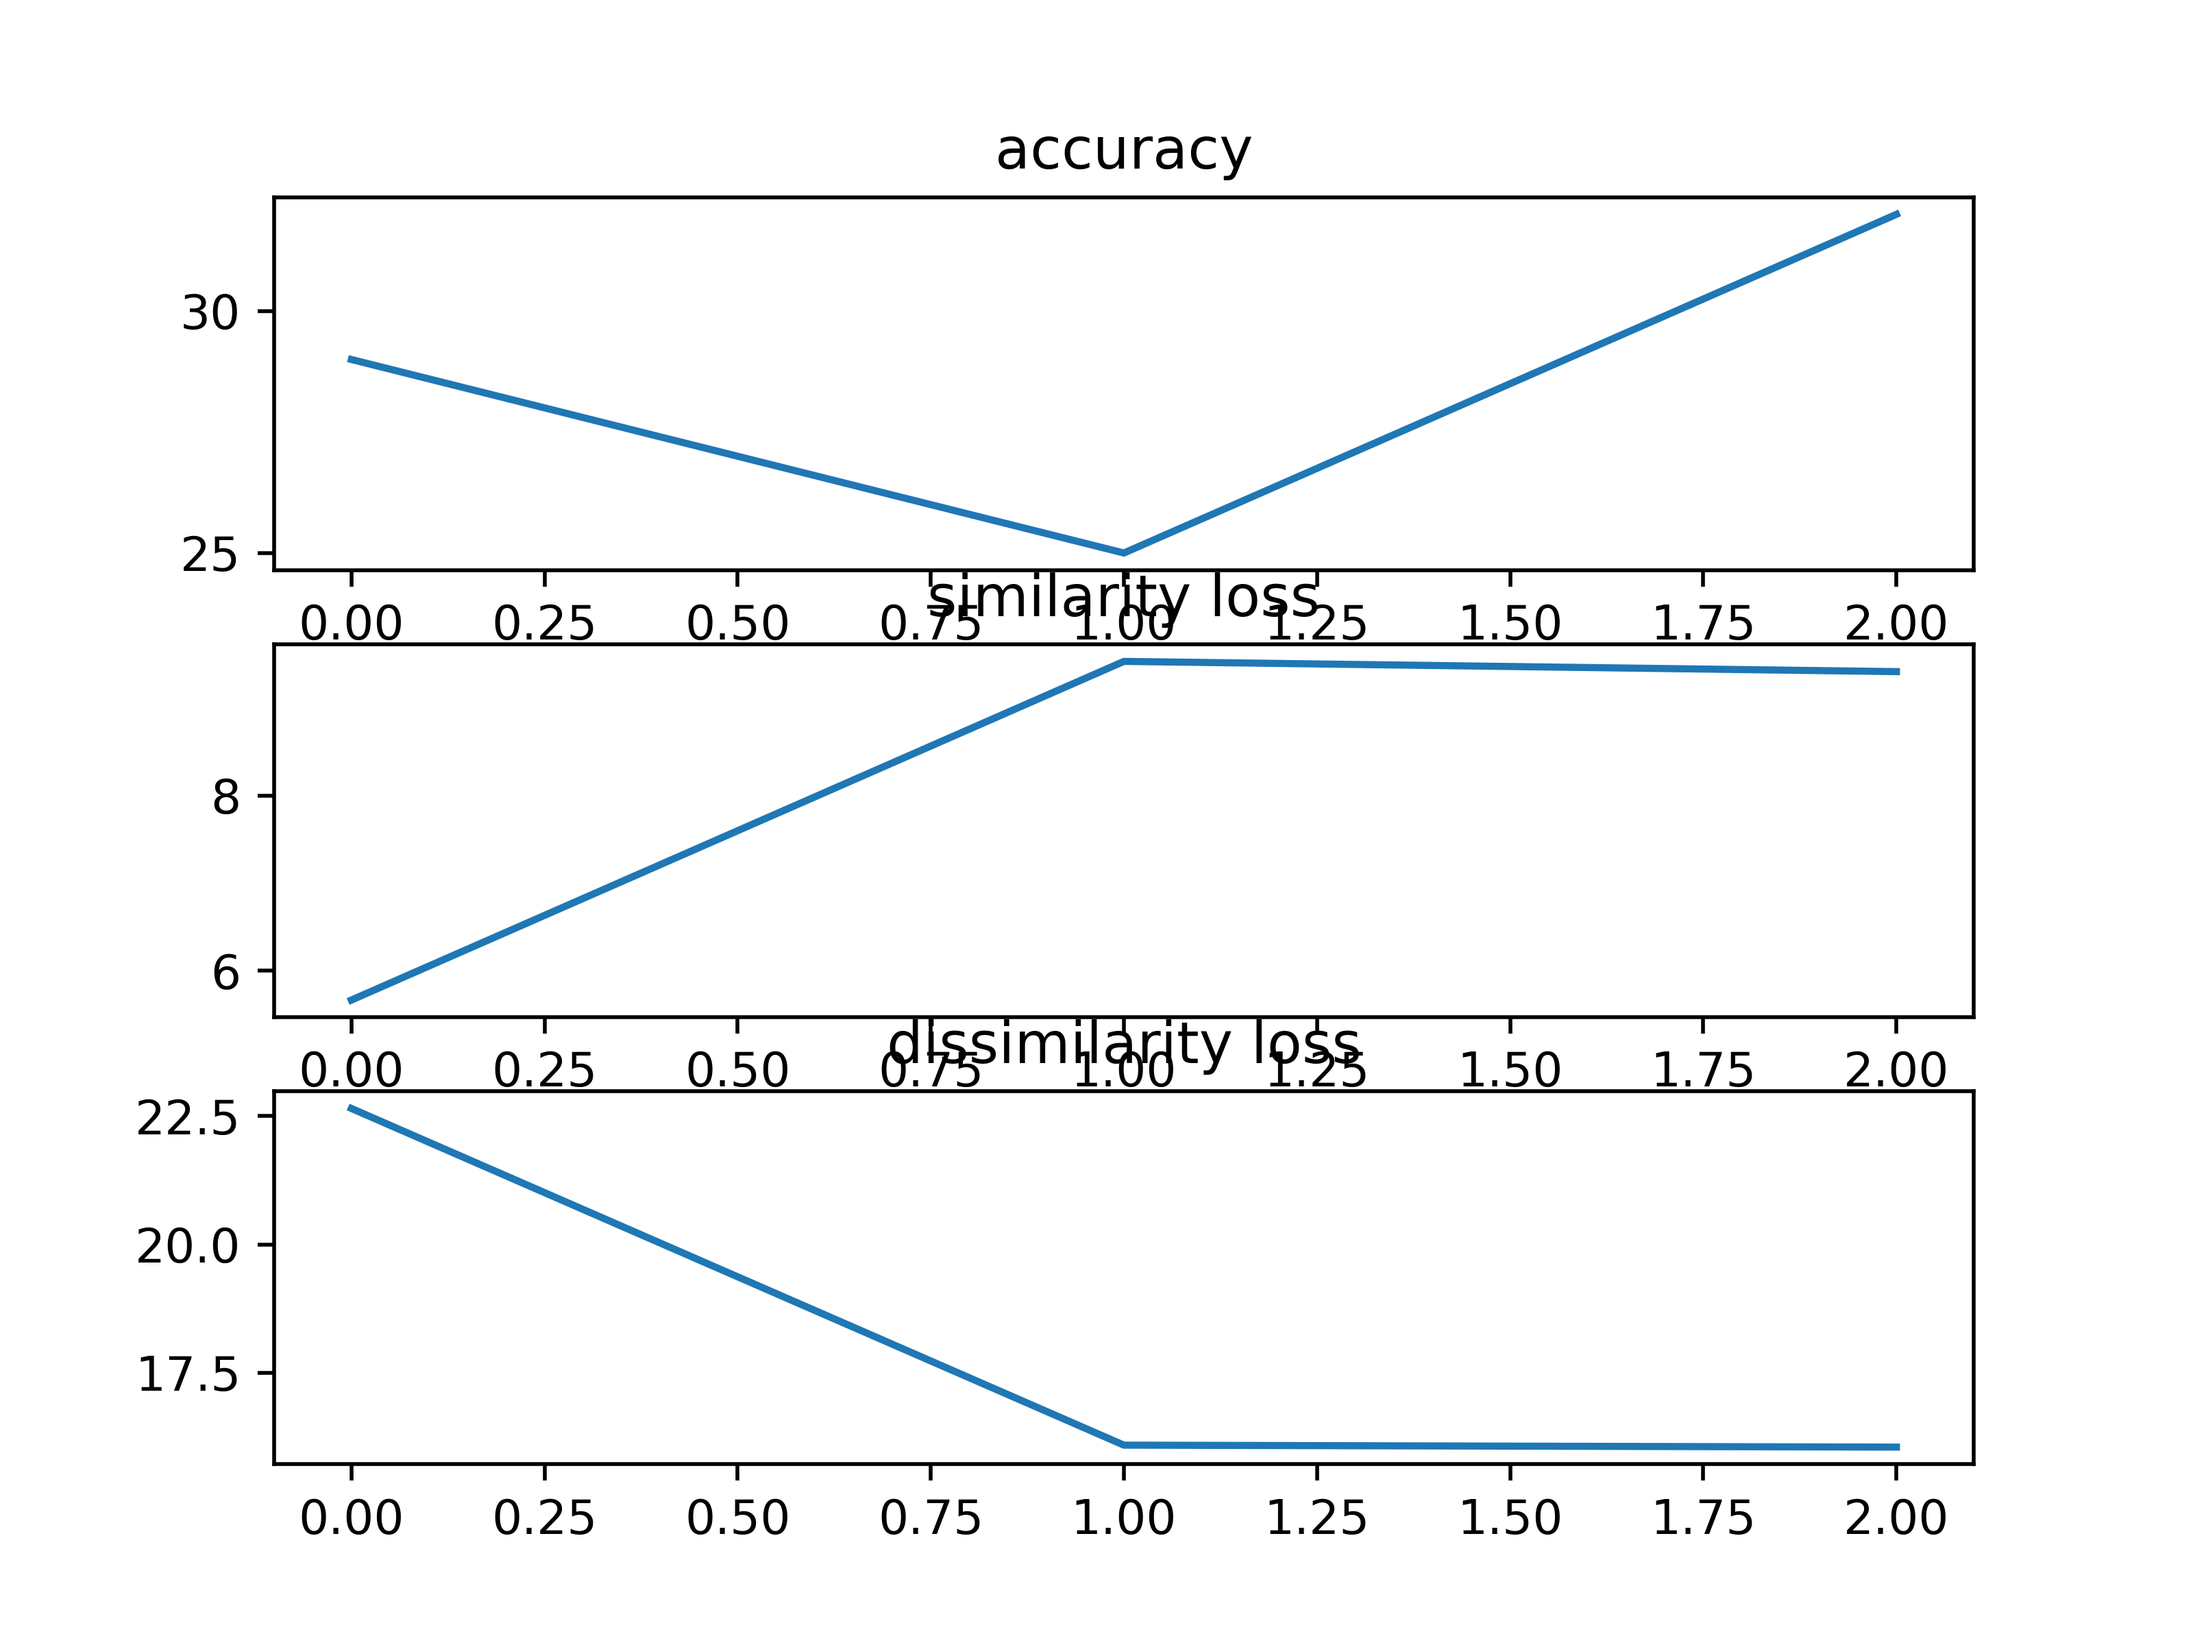
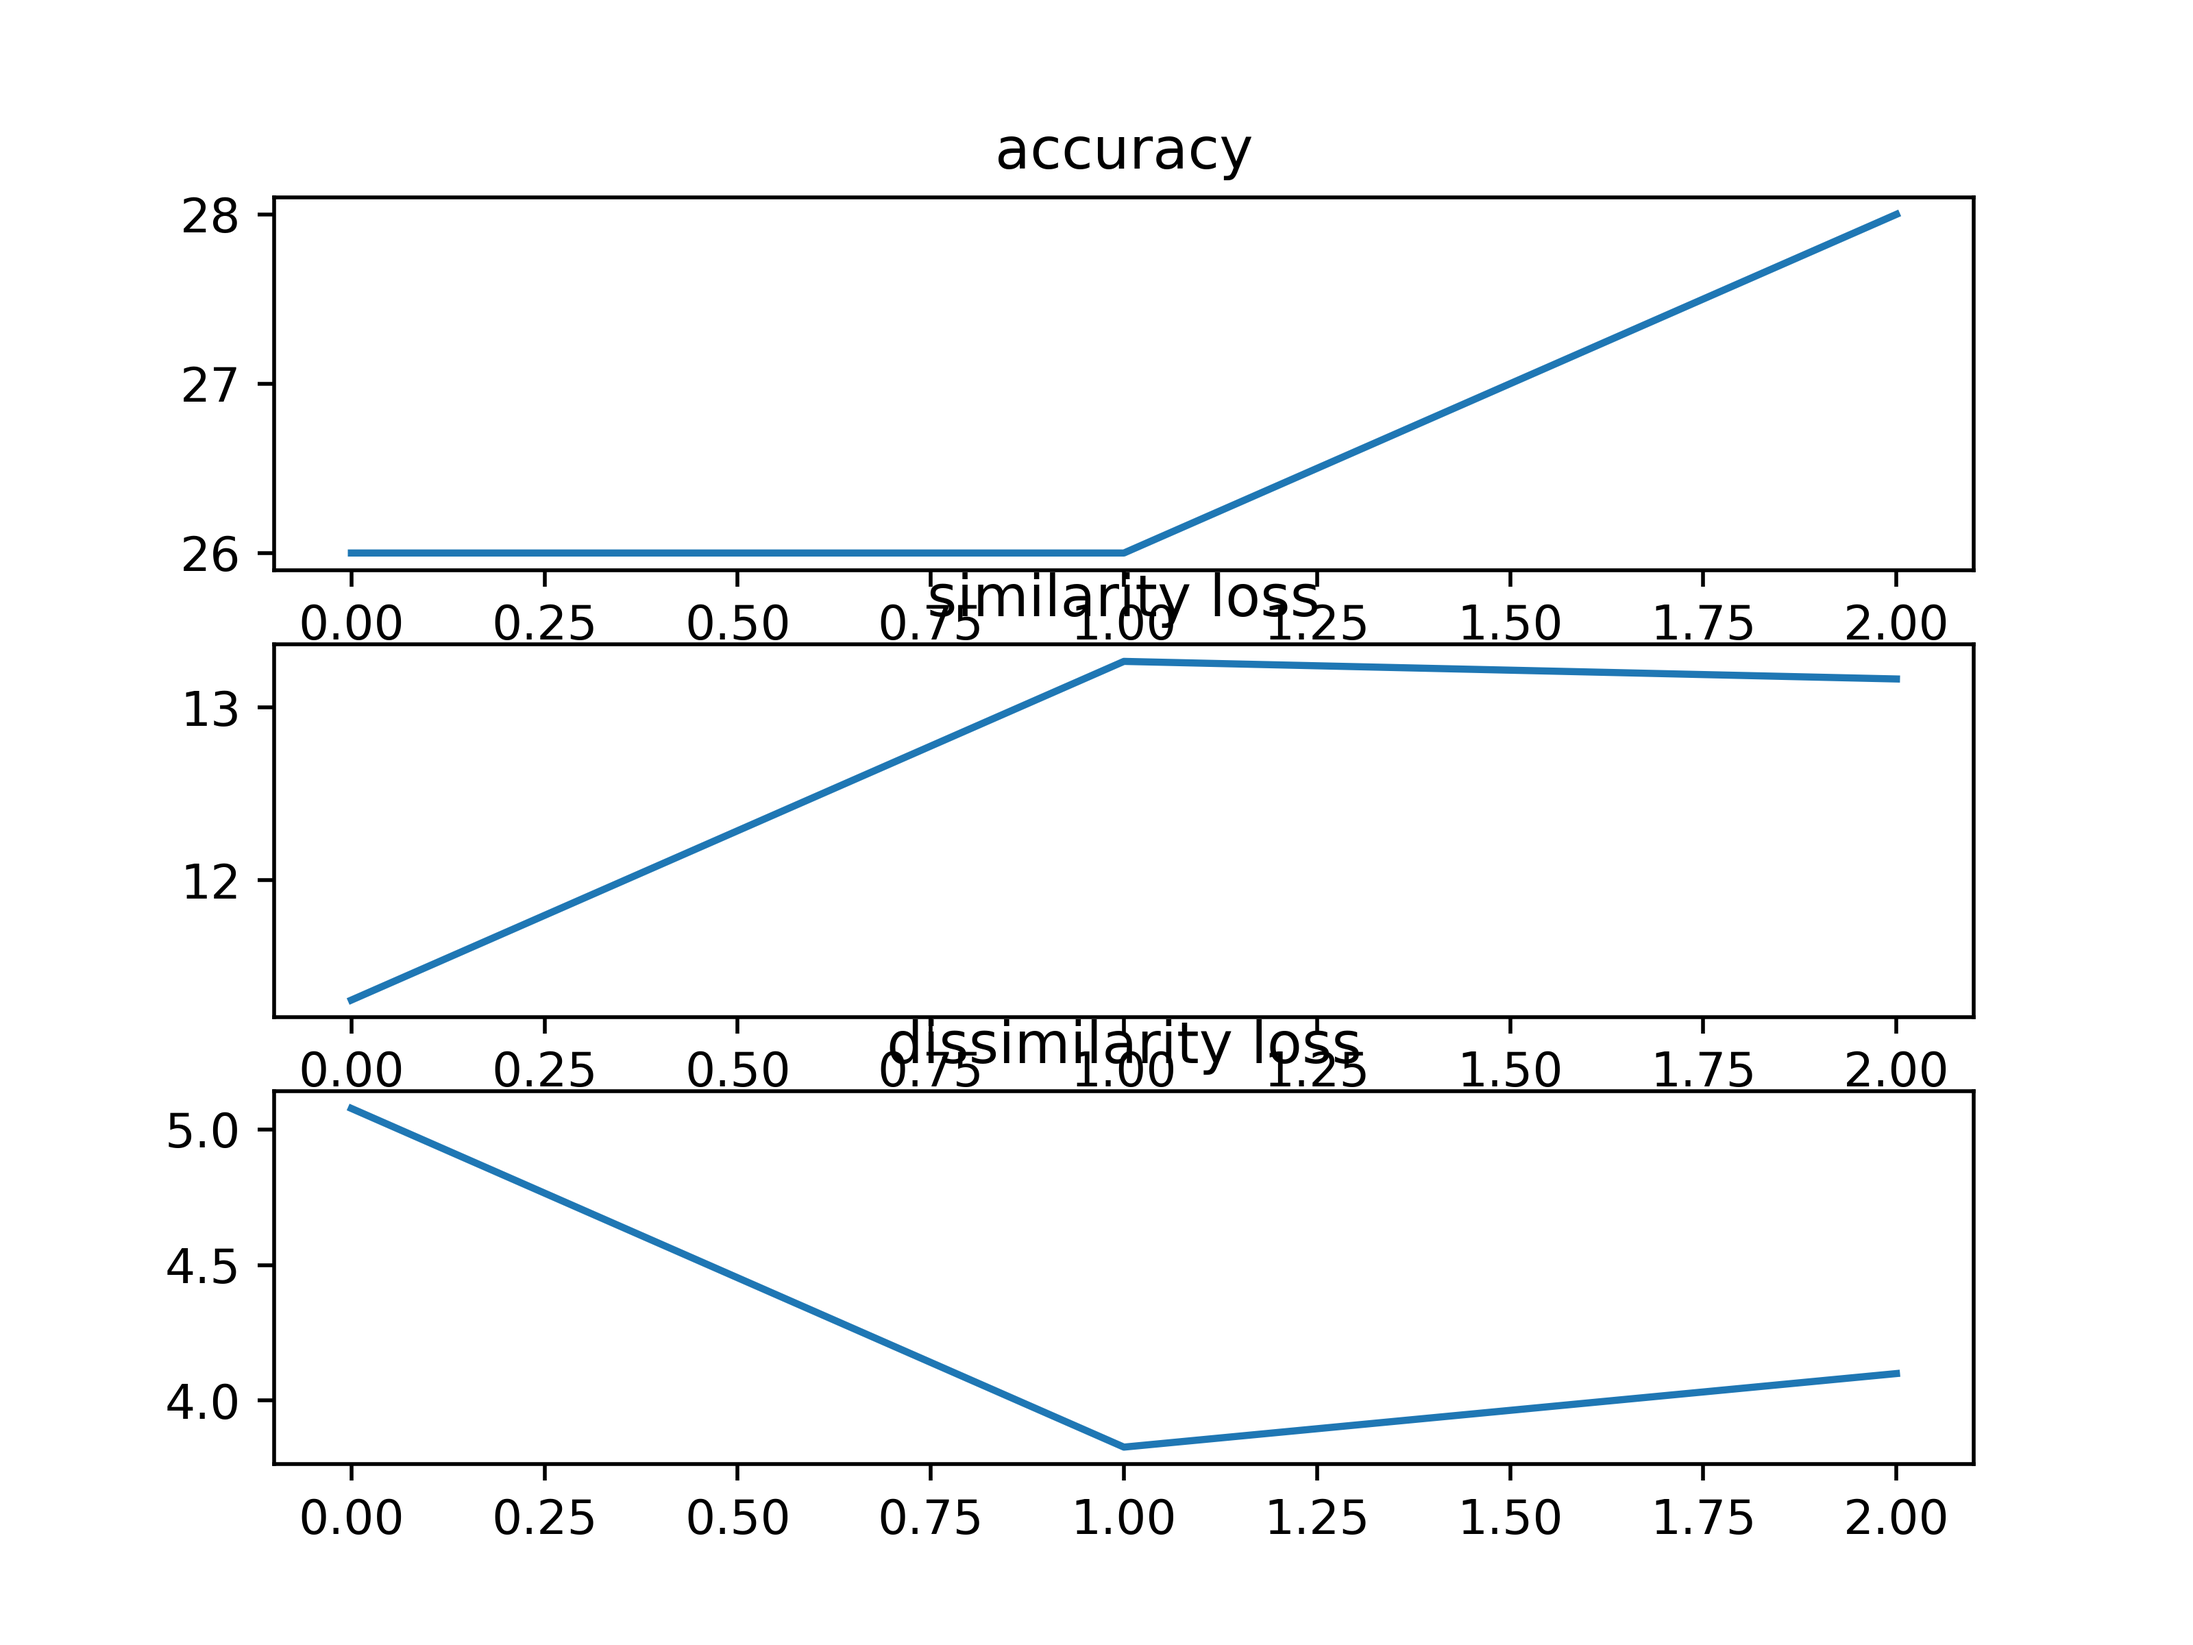
main

diff --git a/5_layered_omniglot_TCAM_based_metalearning.py b/5_layered_omniglot_TCAM_based_metalearning.py
@@ -157,18 +157,18 @@ def data_preprocessing_for_training(way_buf, data_set, q_data_set):
     return data_buffer,query_data_buffer
 
 def network_initializer():   
-    ini_w1=tf.Variable(tf.random.uniform([11029,8000],-1,1), trainable=True)      
-    ini_w2=tf.Variable(tf.random.uniform([8000,4000],-1,1), trainable=True)
-    ini_w3=tf.Variable(tf.random.uniform([4000,2000],-1,1), trainable=True)
-    ini_w4=tf.Variable(tf.random.uniform([2000,500],-1,1), trainable=True)
-    ini_w5=tf.Variable(tf.random.uniform([500,100],-1,1), trainable=True)
+    ini_w1=tf.Variable(tf.random.uniform([11029,4000],-1,1), trainable=True)      
+    ini_w2=tf.Variable(tf.random.uniform([4000,2000],-1,1), trainable=True)
+    ini_w3=tf.Variable(tf.random.uniform([2000,1000],-1,1), trainable=True)
+    ini_w4=tf.Variable(tf.random.uniform([1000,600],-1,1), trainable=True)
+    ini_w5=tf.Variable(tf.random.uniform([600,200],-1,1), trainable=True)
     return ini_w1, ini_w2, ini_w3, ini_w4, ini_w5
 
 def forward_pass(input,fw1,fw2,fw3,fw4,fw5):
     h1=tf.matmul(input,fw1)    
     h1=tf.keras.activations.sigmoid(h1)  
 
-    h2=tf.matmul(h1,fw2)    
+    h2=tf.matmul(h1,fw2)     
     h2=tf.keras.activations.sigmoid(h2) 
     h3=tf.matmul(h2,fw3)    
     h3=tf.keras.activations.sigmoid(h3)  
@@ -180,7 +180,7 @@ def forward_pass(input,fw1,fw2,fw3,fw4,fw5):
 
 
 def contrastive_loss(encoded_query_data,cw1,cw2,cw3,cw4,cw5,query_way_buff):
-    margin=10.0
+    margin=8.0
     encoded_data,lw1,lw2,lw3,lw4,lw5 = forward_pass(encoded_query_data,cw1,cw2,cw3,cw4,cw5)
     retrieved_data, dist_btw_eQD_rD, retrieved_way, dist_btw_Q_TCAM = TCAM_retrieve(encoded_data)
     Dw=Euclidian_distance(encoded_data,retrieved_data)
@@ -224,16 +224,15 @@ def Euclidian_distance(x,y):
 
 w1, w2, w3,w4,w5 = network_initializer()
 
-
+init_dists=[]
+end_dists=[]
 #sequence
 def meta_testing(weight_buf1,weight_buf2,weight_buf3,weight_buf4,weight_buf5, save_trigger):
 #meta_testing = 100 
     count=0
     answer=0
     repeat=0
-    test_number=100
-    init_dists=[]
-    end_dists=[]
+    test_number=100   
     similarity_loss=0
     num_of_sim=0
     dissimilarity_loss=0
@@ -274,6 +273,17 @@ def meta_testing(weight_buf1,weight_buf2,weight_buf3,weight_buf4,weight_buf5, sa
     #query
         encoder_buffer,w1,w2,w3,w4,w5 = forward_pass(query_data,w1,w2,w3,w4,w5)
         TCAM_buffer, distance_btw_query_mostsimilarTCAM, which_way, dist_btw_Q_TCAM = TCAM_retrieve(encoder_buffer)
+        
+        if (save_trigger ==1):
+            if testing == test_number-1 or testing == test_number-10:
+                init_dists.append(dist_btw_Q_TCAM)
+
+        if (save_trigger == 2):
+            if testing == test_number-1 or testing == test_number-10:
+                print("init_dists:",init_dists)
+                end_dists.append(dist_btw_Q_TCAM)
+                print("final_dists:", end_dists)
+
         """
         if (save_trigger ==1) and testing == (test_number-1) :
             qd=tf.slice(query_data,[0,3],[1,11025])
@@ -306,12 +316,8 @@ def meta_testing(weight_buf1,weight_buf2,weight_buf3,weight_buf4,weight_buf5, sa
             print("query_way",query_way)
             print("retrieved_way: ", which_way)  
             print("distances btw query & TCAM stored_data", dist_btw_Q_TCAM)
-        if (save_trigger ==1) and testing == (test_number-1):
-            init_dists=dist_btw_Q_TCAM 
-        if save_trigger == 2 and testing == (test_number-1):
-            print("init_dists:",init_dists)
-            end_dists=dist_btw_Q_TCAM 
-            print("final_dists:", end_dists)
+
+       
         if query_way == which_way:
             answer=answer+1
         accuracy=(answer/count)*100
@@ -372,9 +378,9 @@ trigger=0
 for epoches in range(epoch):
     print('=======',epoches,'th epoch========')
     if epoches == 0:
-        trigger=0
+        trigger=1
     if epoches == (epoch-1):
-        trigger=0
+        trigger=2
     acc,sim_loss,dis_loss=meta_testing(w1,w2,w3,w4,w5,trigger)
     trigger=0
     w1,w2,w3,w4,w5=meta_training(w1,w2,w3,w4,w5)
